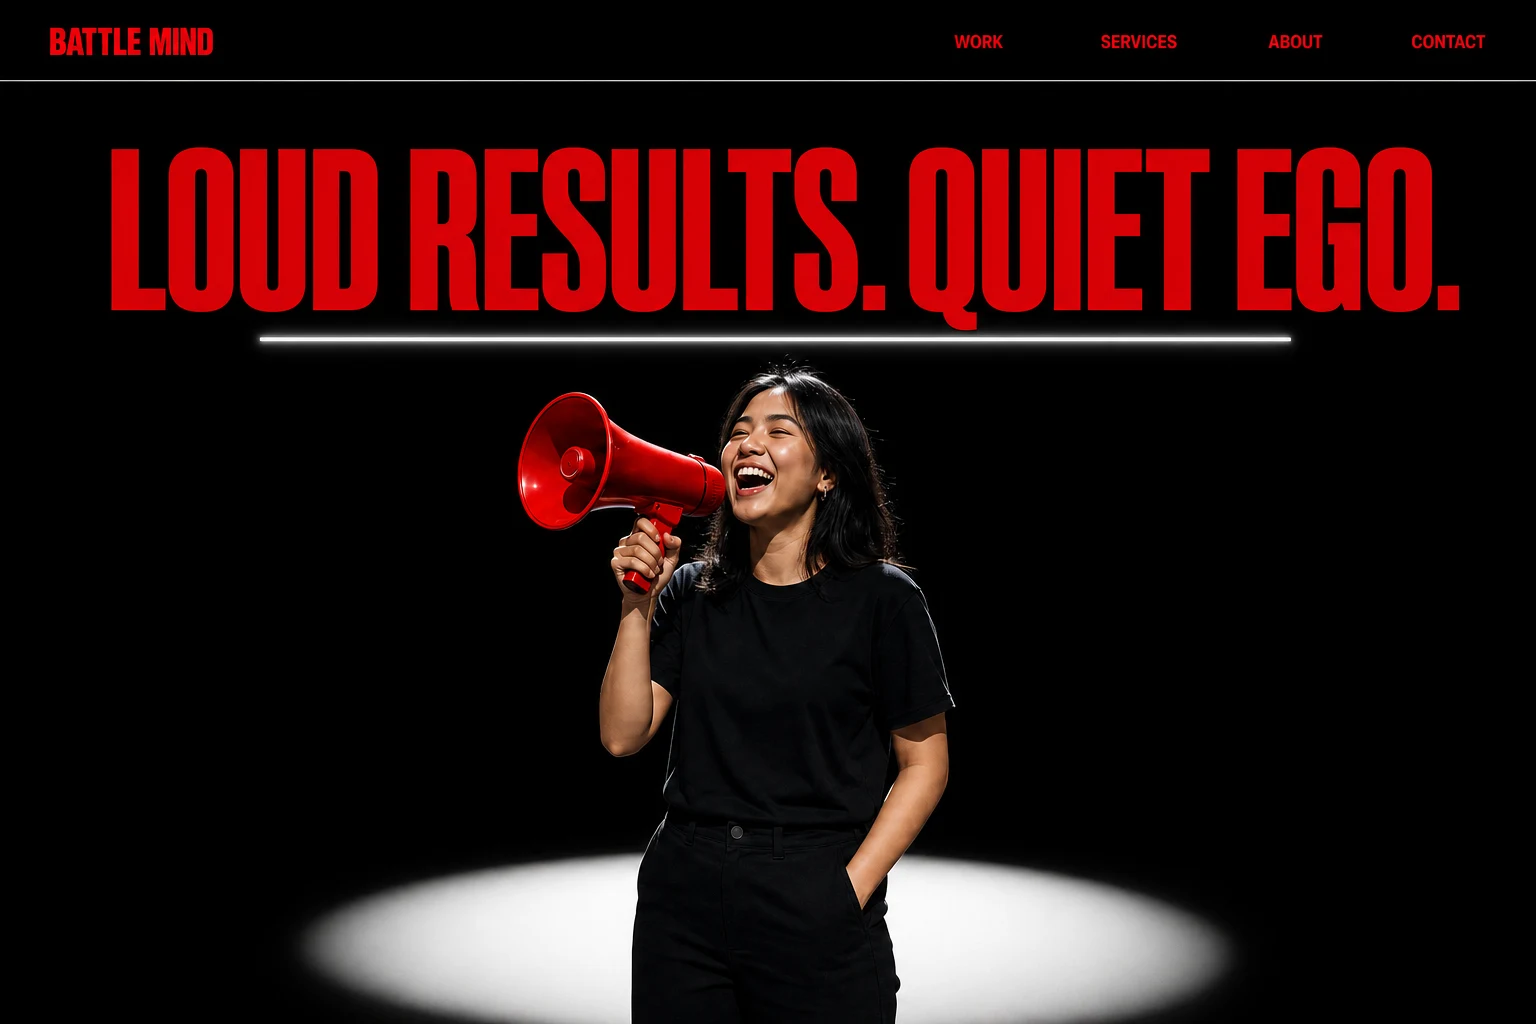
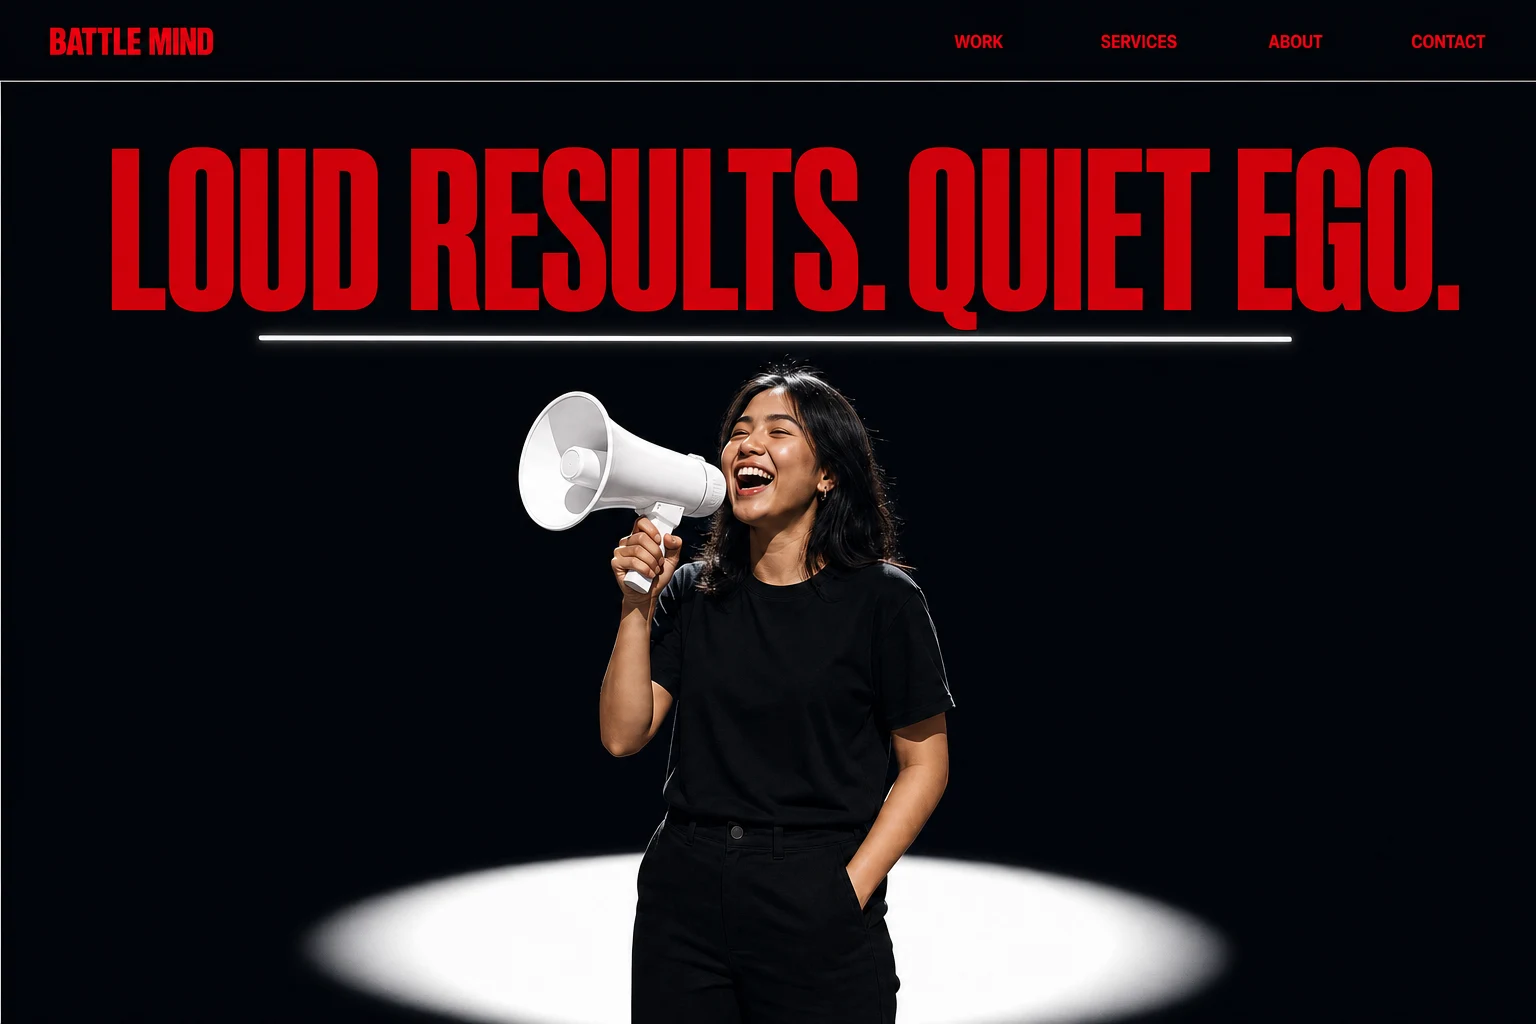
04 Stage: megaphone takes the accent colour in all six

diff --git a/stage.html b/stage.html
@@ -27,11 +27,11 @@ h1{font-weight:800;letter-spacing:-.03em;font-size:clamp(34px,4.5vw,60px);line-h
 const K = { b: ['#0D131A', 'black'], w: ['#ffffff', 'white'], r: ['#D7000F', 'red'] };
 const C = [
  ['04-black-stage', 'b', 'w', 'r', 'The original. Black stage, white type, red accent. Cinematic; the red megaphone is the only colour.'],
- ['stage-b-r-w', 'b', 'r', 'w', 'Black stage, red type, white accent. The headline carries the red; the underline and spotlight go white (the render kept the megaphone red).'],
+ ['stage-b-r-w', 'b', 'r', 'w', 'Black stage, red type, white accent. The headline carries the red; the underline, megaphone and spotlight go white.'],
  ['stage-w-b-r', 'w', 'b', 'r', 'White stage, black type, red accent. The brightest and most "day" version; red reads hottest on white.'],
  ['stage-w-r-b', 'w', 'r', 'b', 'White stage, red type, black accent. Editorial and graphic; the black spotlight pool becomes a disc she stands on.'],
- ['stage-r-w-b', 'r', 'w', 'b', 'Red stage, white type, black accent. Maximum brand red; bold, loud, confident (the render kept the megaphone red; it can be black).'],
- ['stage-r-b-w', 'r', 'b', 'w', 'Red stage, black type, white accent. Red with a heavier, more serious voice; the white spotlight lifts her out (megaphone stayed red; it can be white).'],
+ ['stage-r-w-b', 'r', 'w', 'b', 'Red stage, white type, black accent. Maximum brand red; bold, loud, confident.'],
+ ['stage-r-b-w', 'r', 'b', 'w', 'Red stage, black type, white accent. Red with a heavier, more serious voice; the white spotlight lifts her out.'],
 ];
 const g = document.getElementById('g'), z = document.getElementById('z');
 C.forEach(([f, s, t, a, d], i) => { const el = document.createElement('article'); el.className = 'card';
